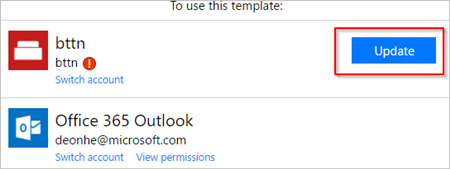
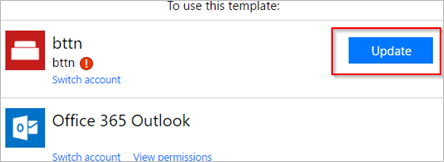
Accessibility updates

Changed region(s): [[0.0, 0.5556, 0.9955, 1.0], [0.0, 0.1235, 1.0, 0.5247], [0.3806, 0.0, 0.6441, 0.0926]]

diff --git a/articles/bttn-button-flows.md b/articles/bttn-button-flows.md
@@ -49,13 +49,13 @@ In this walkthrough, we use a helpdesk template to create a flow that you can tr
 
 You can use any of these templates to quickly create flows for your bttn and connect to Zendesk, Google, and SharePoint, among others:
 
-![bttn templates](./media/bttn-button-flows/bttn-templates.png)
+![View list of bttn templates](./media/bttn-button-flows/bttn-templates.png)
 
 Tip: For the purposes of this walkthrough, give your bttn a name that represents a conference room in a typical office building.
 
 The settings for your bttn should resemble this example (from the bttn website):
 
-![bttn templates](./media/bttn-button-flows/bttn-config.png)
+![View of bttn settings](./media/bttn-button-flows/bttn-config.png)
 
 Now that you've registered and configured your bttn, let's get started creating our flow.
 
@@ -85,7 +85,7 @@ Now that you've registered and configured your bttn, let's get started creating 
     ![authorize](./media/bttn-button-flows/authorize-bttn.png)
 3. After you sign into both services, select **Continue**.
    
-    ![Continue](./media/bttn-button-flows/continue.png)
+    ![Select the continue button](./media/bttn-button-flows/continue.png)
 
 ### Select the bttn that triggers the flow
 1. In the **When a bttn is pressed** card, open the list of bttn IDs, and then select the bttn that you want to use.
@@ -110,7 +110,7 @@ Now that you've registered and configured your bttn, let's get started creating 
    
     If you've followed along, the support email looks similar to this example:
    
-    ![](./media/bttn-button-flows/support-request-email.png)
+    ![The support email](./media/bttn-button-flows/support-request-email.png)
 
 ## Troubleshooting
 * If your flow wasn't triggered, sign into The Button Corporation's site and confirm whether the button activity (presses) are being recorded.

diff --git a/articles/admin-analytics-report.md b/articles/admin-analytics-report.md
@@ -46,7 +46,7 @@ From a sharing perspective, you can learn who your app champions are and then em
 1. Select **Analytics** from the navigation bar on the left.
 1. Select the **Connectors** tab and view the list of connectors in use in your organization.
  
-    ![Shared connectors view](media/admin-analytics-report/connectors-tab.png)
+    ![The connectors view](media/admin-analytics-report/connectors-tab.png)
 
 ## Filter views
 
@@ -59,7 +59,7 @@ The results in these reports are based on the environment you've selected. To ch
 1. Select the **Environment** and the **Time Period** for which you're interested in viewing reports.
 1. Select the **Apply** button.
 
-    ![Change filters](media/admin-analytics-report/filters-detail.png)
+    ![Filters detail](media/admin-analytics-report/filters-detail.png)
 
 ## Learn more
 

diff --git a/articles/admin-center-introduction.md b/articles/admin-center-introduction.md
@@ -26,7 +26,7 @@ search.audienceType:
 
 The admin center is the central location where tenant admins and environment admins manage an organization’s data policies and environments. Any changes you make in the admin center are immediately available to users within the organization.
 
-![overview](./media/admin-center-introduction/overview.png)
+![Displays the overview of the admin center](./media/admin-center-introduction/overview.png)
 
 ## Access the Admin center
 

diff --git a/articles/approval-attachments.md b/articles/approval-attachments.md
@@ -81,7 +81,7 @@ You'll can test your flow by selecting **Test** and then uploading an .xlsx file
 1. Select **Test** > **Continue** to start the test.
 1. Select **Import**.
 
-     ![](./media/approval-attachments/import-file.png)
+     ![Select the import button](./media/approval-attachments/import-file.png)
 1. Find the file, select it, and then select **Open** to upload the file or image you're sending for approval.
 
 1. Select **Run flow**.
